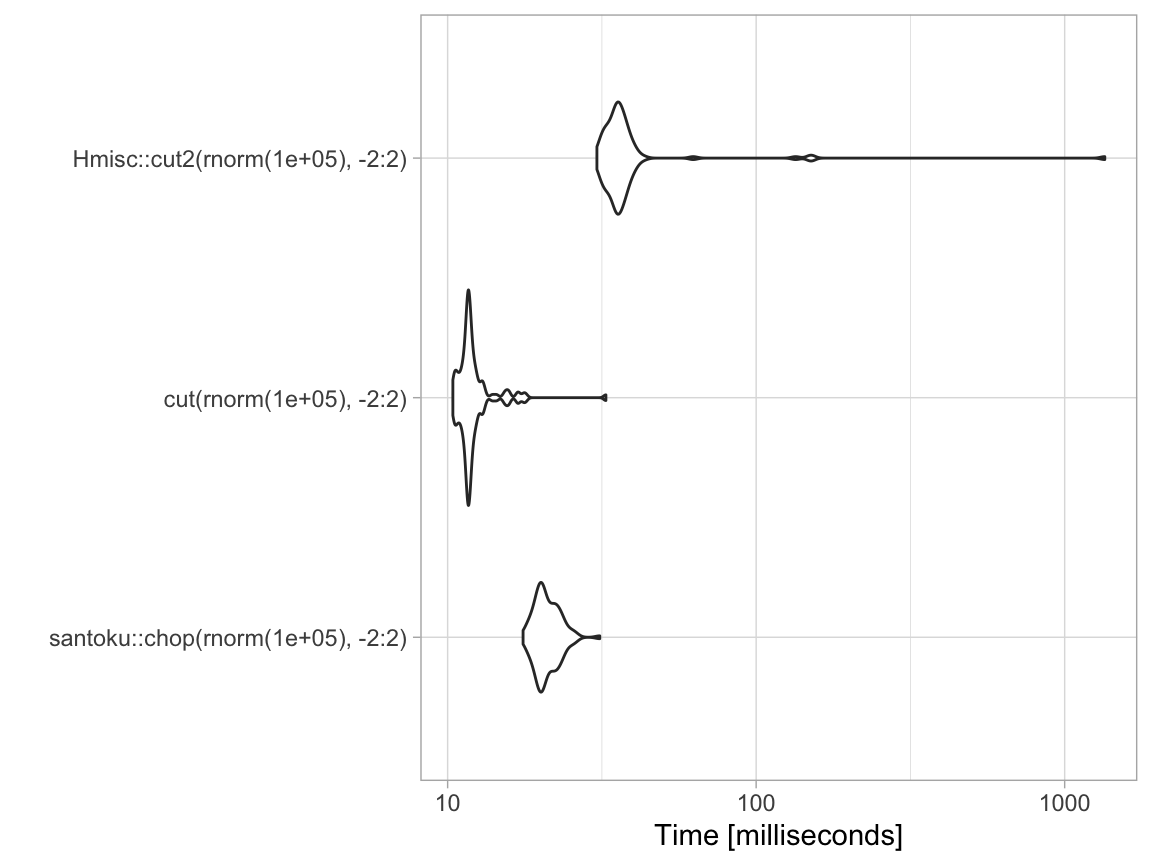
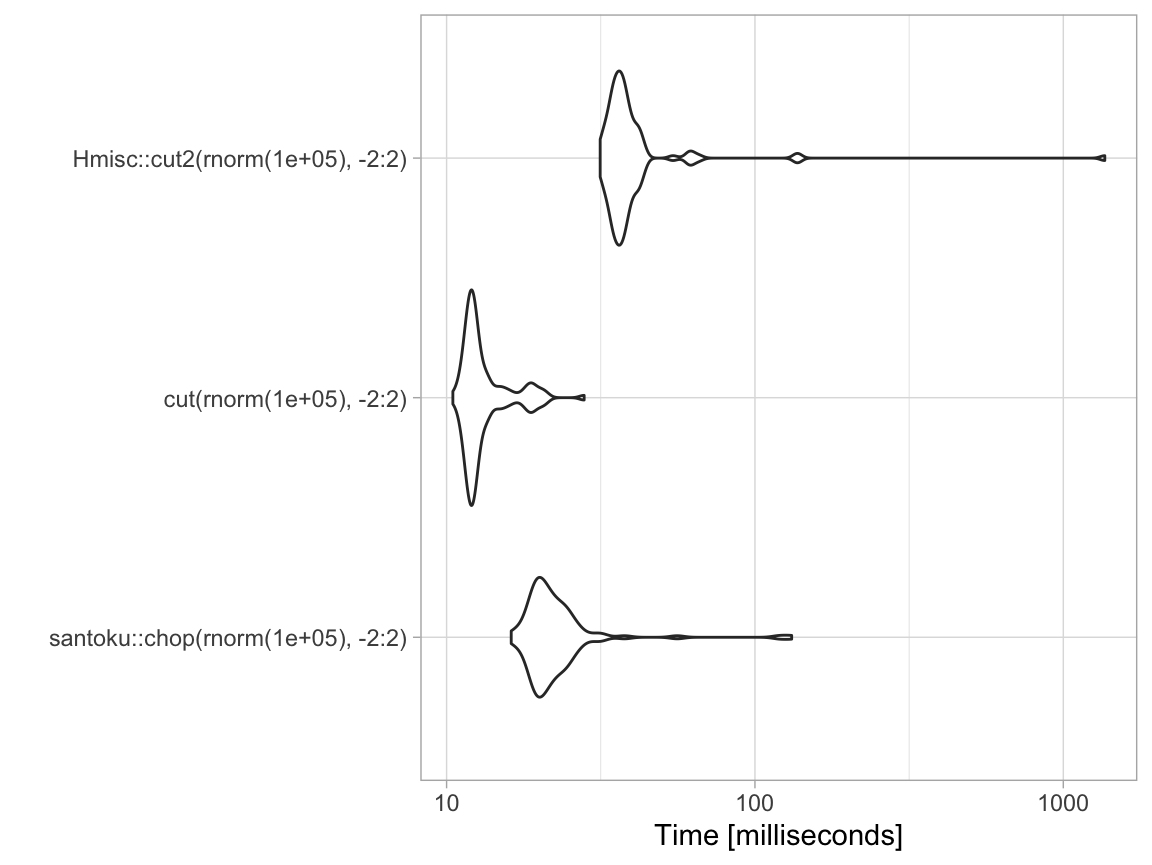
Update website

diff --git a/docs/articles/website-articles/performance.html b/docs/articles/website-articles/performance.html
@@ -38,7 +38,7 @@
       </button>
       <span class="navbar-brand">
         <a class="navbar-link" href="../../index.html">santoku</a>
-        <span class="version label label-default" data-toggle="tooltip" data-placement="bottom" title="Released version">0.4.0</span>
+        <span class="version label label-default" data-toggle="tooltip" data-placement="bottom" title="Released version">0.4.1</span>
       </span>
     </div>
 
@@ -110,7 +110,7 @@
       <h1 data-toc-skip>Performance</h1>
                         <h4 class="author">David Hugh-Jones</h4>
             
-            <h4 class="date">2020-06-13</h4>
+            <h4 class="date">2020-06-17</h4>
       
       <small class="dont-index">Source: <a href="https://github.com/hughjonesd/santoku/blob/master/vignettes/website-articles/performance.Rmd"><code>vignettes/website-articles/performance.Rmd</code></a></small>
       <div class="hidden name"><code>performance.Rmd</code></div>
@@ -125,7 +125,7 @@
 <p>The core of santoku is written in C++. It is reasonably fast:</p>
 <div class="sourceCode" id="cb1"><html><body><pre class="r">
 <span class="fu"><a href="https://rdrr.io/r/utils/packageDescription.html">packageVersion</a></span>(<span class="st">"santoku"</span>)
-<span class="co">#&gt; [1] '0.4.0'</span>
+<span class="co">#&gt; [1] '0.4.1'</span>
 <span class="no">mb</span> <span class="kw">&lt;-</span> <span class="kw pkg">microbenchmark</span><span class="kw ns">::</span><span class="fu"><a href="https://rdrr.io/pkg/microbenchmark/man/microbenchmark.html">microbenchmark</a></span>(
         <span class="kw pkg">santoku</span><span class="kw ns">::</span><span class="fu"><a href="../../reference/chop.html">chop</a></span>(<span class="fu"><a href="https://rdrr.io/r/stats/Normal.html">rnorm</a></span>(<span class="fl">1e5</span>), -<span class="fl">2</span>:<span class="fl">2</span>),
                   <span class="fu"><a href="https://rdrr.io/r/base/cut.html">cut</a></span>(<span class="fu"><a href="https://rdrr.io/r/stats/Normal.html">rnorm</a></span>(<span class="fl">1e5</span>), -<span class="fl">2</span>:<span class="fl">2</span>),
@@ -134,13 +134,13 @@
 <span class="no">mb</span>
 <span class="co">#&gt; Unit: milliseconds</span>
 <span class="co">#&gt;                               expr      min       lq     mean   median       uq</span>
-<span class="co">#&gt;  santoku::chop(rnorm(1e+05), -2:2) 17.55996 19.70405 21.11148 20.60997 22.29129</span>
-<span class="co">#&gt;            cut(rnorm(1e+05), -2:2) 10.39877 11.44516 12.29500 11.69702 12.20044</span>
-<span class="co">#&gt;    Hmisc::cut2(rnorm(1e+05), -2:2) 30.46991 33.55995 52.20586 35.61675 37.68838</span>
+<span class="co">#&gt;  santoku::chop(rnorm(1e+05), -2:2) 16.20324 19.52585 24.16990 20.87317 23.83831</span>
+<span class="co">#&gt;            cut(rnorm(1e+05), -2:2) 10.48017 11.85034 13.41989 12.26808 13.48449</span>
+<span class="co">#&gt;    Hmisc::cut2(rnorm(1e+05), -2:2) 31.48280 34.82027 53.32684 36.86512 39.45689</span>
 <span class="co">#&gt;         max neval cld</span>
-<span class="co">#&gt;    31.12616   100  a </span>
-<span class="co">#&gt;    32.58502   100  a </span>
-<span class="co">#&gt;  1349.17231   100   b</span></pre></body></html></div>
+<span class="co">#&gt;   131.55395   100  a </span>
+<span class="co">#&gt;    27.93251   100  a </span>
+<span class="co">#&gt;  1363.16763   100   b</span></pre></body></html></div>
 <div class="sourceCode" id="cb2"><html><body><pre class="r"><span class="kw pkg">ggplot2</span><span class="kw ns">::</span><span class="fu"><a href="https://ggplot2.tidyverse.org/reference/autoplot.html">autoplot</a></span>(<span class="no">mb</span>) + <span class="kw pkg">ggplot2</span><span class="kw ns">::</span><span class="fu"><a href="https://ggplot2.tidyverse.org/reference/ggtheme.html">theme_light</a></span>()
 <span class="co">#&gt; Coordinate system already present. Adding new coordinate system, which will replace the existing one.</span></pre></body></html></div>
 <p><img src="performance_files/figure-html/unnamed-chunk-2-1.png" width="576"></p>

diff --git a/docs/reference/brk_width-for-datetime.html b/docs/reference/brk_width-for-datetime.html
@@ -81,7 +81,7 @@ lubridate package." />
       </button>
       <span class="navbar-brand">
         <a class="navbar-link" href="../index.html">santoku</a>
-        <span class="version label label-default" data-toggle="tooltip" data-placement="bottom" title="Released version">0.4.0</span>
+        <span class="version label label-default" data-toggle="tooltip" data-placement="bottom" title="Released version">0.4.1</span>
       </span>
     </div>
 
@@ -180,8 +180,8 @@ Can be omitted.</p></td>
 
     <h2 class="hasAnchor" id="details"><a class="anchor" href="#details"></a>Details</h2>
 
-    <p>If <code>width</code> is a Period, <code><a href='http://lubridate.tidyverse.org/reference/mplus.html'>lubridate::add_with_rollback()</a></code> is used
-to calculate the widths. This can be useful for e.g. calendar months.</p>
+    <p>If <code>width</code> is a Period, <code><a href='http://lubridate.tidyverse.org/reference/mplus.html'>lubridate::add_with_rollback()</a></code>
+is used to calculate the widths. This can be useful for e.g. calendar months.</p>
 
     <h2 class="hasAnchor" id="examples"><a class="anchor" href="#examples"></a>Examples</h2>
     <pre class="examples"><div class='input'>

diff --git a/docs/news/index.html b/docs/news/index.html
@@ -79,7 +79,7 @@
       </button>
       <span class="navbar-brand">
         <a class="navbar-link" href="../index.html">santoku</a>
-        <span class="version label label-default" data-toggle="tooltip" data-placement="bottom" title="Released version">0.4.0</span>
+        <span class="version label label-default" data-toggle="tooltip" data-placement="bottom" title="Released version">0.4.1</span>
       </span>
     </div>
 
@@ -152,6 +152,14 @@
       <small>Source: <a href='https://github.com/hughjonesd/santoku/blob/master/NEWS.md'><code>NEWS.md</code></a></small>
     </div>
 
+    <div id="santoku-0-4-1" class="section level1">
+<h1 class="page-header" data-toc-text="0.4.1">
+<a href="#santoku-0-4-1" class="anchor"></a>santoku 0.4.1<small> 2020-06-16 </small>
+</h1>
+<ul>
+<li>Bugfix: <code><a href="../reference/chop.html">chop(1:4, 1)</a></code> was erroring.</li>
+</ul>
+</div>
     <div id="santoku-0-4-0" class="section level1">
 <h1 class="page-header" data-toc-text="0.4.0">
 <a href="#santoku-0-4-0" class="anchor"></a>santoku 0.4.0<small> 2020-06-09 </small>

diff --git a/docs/TODO.html b/docs/TODO.html
@@ -79,7 +79,7 @@
       </button>
       <span class="navbar-brand">
         <a class="navbar-link" href="index.html">santoku</a>
-        <span class="version label label-default" data-toggle="tooltip" data-placement="bottom" title="Released version">0.4.0</span>
+        <span class="version label label-default" data-toggle="tooltip" data-placement="bottom" title="Released version">0.4.1</span>
       </span>
     </div>
 
@@ -189,7 +189,7 @@
 <ul>
 <li>ts, xts, zoo, package_version, units?</li>
 <li>
-<code>brk_days()</code>, <code>brk_weeks()</code> etc.? Equivalent to all lubridate’s <code><a href="http://lubridate.tidyverse.org/reference/period.html">days()</a></code> etc. classes?</li>
+<code>brk_days()</code>, <code>brk_weeks()</code> etc.? Equivalent to all lubridate’s <code>days()</code> etc. classes?</li>
 </ul>
 </li>
 <li><p>Allow <code><a href="reference/chop_width.html">brk_width()</a></code> to run backwards? See github feature request.</p></li>

diff --git a/docs/reference/chop_mean_sd.html b/docs/reference/chop_mean_sd.html
@@ -81,7 +81,7 @@ The outermost pair of intervals will be shorter if sd is not a whole number." />
       </button>
       <span class="navbar-brand">
         <a class="navbar-link" href="../index.html">santoku</a>
-        <span class="version label label-default" data-toggle="tooltip" data-placement="bottom" title="Released version">0.4.0</span>
+        <span class="version label label-default" data-toggle="tooltip" data-placement="bottom" title="Released version">0.4.1</span>
       </span>
     </div>
 

diff --git a/docs/reference/chop.html b/docs/reference/chop.html
@@ -81,7 +81,7 @@ length as x, representing which interval contains each element of x." />
       </button>
       <span class="navbar-brand">
         <a class="navbar-link" href="../index.html">santoku</a>
-        <span class="version label label-default" data-toggle="tooltip" data-placement="bottom" title="Released version">0.4.0</span>
+        <span class="version label label-default" data-toggle="tooltip" data-placement="bottom" title="Released version">0.4.1</span>
       </span>
     </div>
 

diff --git a/docs/reference/santoku-package.html b/docs/reference/santoku-package.html
@@ -83,7 +83,7 @@ same length, coding which interval each element of x falls into." />
       </button>
       <span class="navbar-brand">
         <a class="navbar-link" href="../index.html">santoku</a>
-        <span class="version label label-default" data-toggle="tooltip" data-placement="bottom" title="Released version">0.4.0</span>
+        <span class="version label label-default" data-toggle="tooltip" data-placement="bottom" title="Released version">0.4.1</span>
       </span>
     </div>
 

diff --git a/docs/reference/knife.html b/docs/reference/knife.html
@@ -82,7 +82,7 @@ knife() is deprecated in favour of purrr::partial()." />
       </button>
       <span class="navbar-brand">
         <a class="navbar-link" href="../index.html">santoku</a>
-        <span class="version label label-default" data-toggle="tooltip" data-placement="bottom" title="Released version">0.4.0</span>
+        <span class="version label label-default" data-toggle="tooltip" data-placement="bottom" title="Released version">0.4.1</span>
       </span>
     </div>
 

diff --git a/docs/reference/chop_width.html b/docs/reference/chop_width.html
@@ -81,7 +81,7 @@ chops x into intervals intervals of equal width." />
       </button>
       <span class="navbar-brand">
         <a class="navbar-link" href="../index.html">santoku</a>
-        <span class="version label label-default" data-toggle="tooltip" data-placement="bottom" title="Released version">0.4.0</span>
+        <span class="version label label-default" data-toggle="tooltip" data-placement="bottom" title="Released version">0.4.1</span>
       </span>
     </div>
 

diff --git a/docs/reference/chop_n.html b/docs/reference/chop_n.html
@@ -81,7 +81,7 @@ interval may have fewer elements." />
       </button>
       <span class="navbar-brand">
         <a class="navbar-link" href="../index.html">santoku</a>
-        <span class="version label label-default" data-toggle="tooltip" data-placement="bottom" title="Released version">0.4.0</span>
+        <span class="version label label-default" data-toggle="tooltip" data-placement="bottom" title="Released version">0.4.1</span>
       </span>
     </div>
 

diff --git a/docs/reference/lbl_dash.html b/docs/reference/lbl_dash.html
@@ -81,7 +81,7 @@ left- and right-closed intervals." />
       </button>
       <span class="navbar-brand">
         <a class="navbar-link" href="../index.html">santoku</a>
-        <span class="version label label-default" data-toggle="tooltip" data-placement="bottom" title="Released version">0.4.0</span>
+        <span class="version label label-default" data-toggle="tooltip" data-placement="bottom" title="Released version">0.4.1</span>
       </span>
     </div>
 

diff --git a/docs/reference/chop_quantiles.html b/docs/reference/chop_quantiles.html
@@ -82,7 +82,7 @@ chops into deciles." />
       </button>
       <span class="navbar-brand">
         <a class="navbar-link" href="../index.html">santoku</a>
-        <span class="version label label-default" data-toggle="tooltip" data-placement="bottom" title="Released version">0.4.0</span>
+        <span class="version label label-default" data-toggle="tooltip" data-placement="bottom" title="Released version">0.4.1</span>
       </span>
     </div>
 
